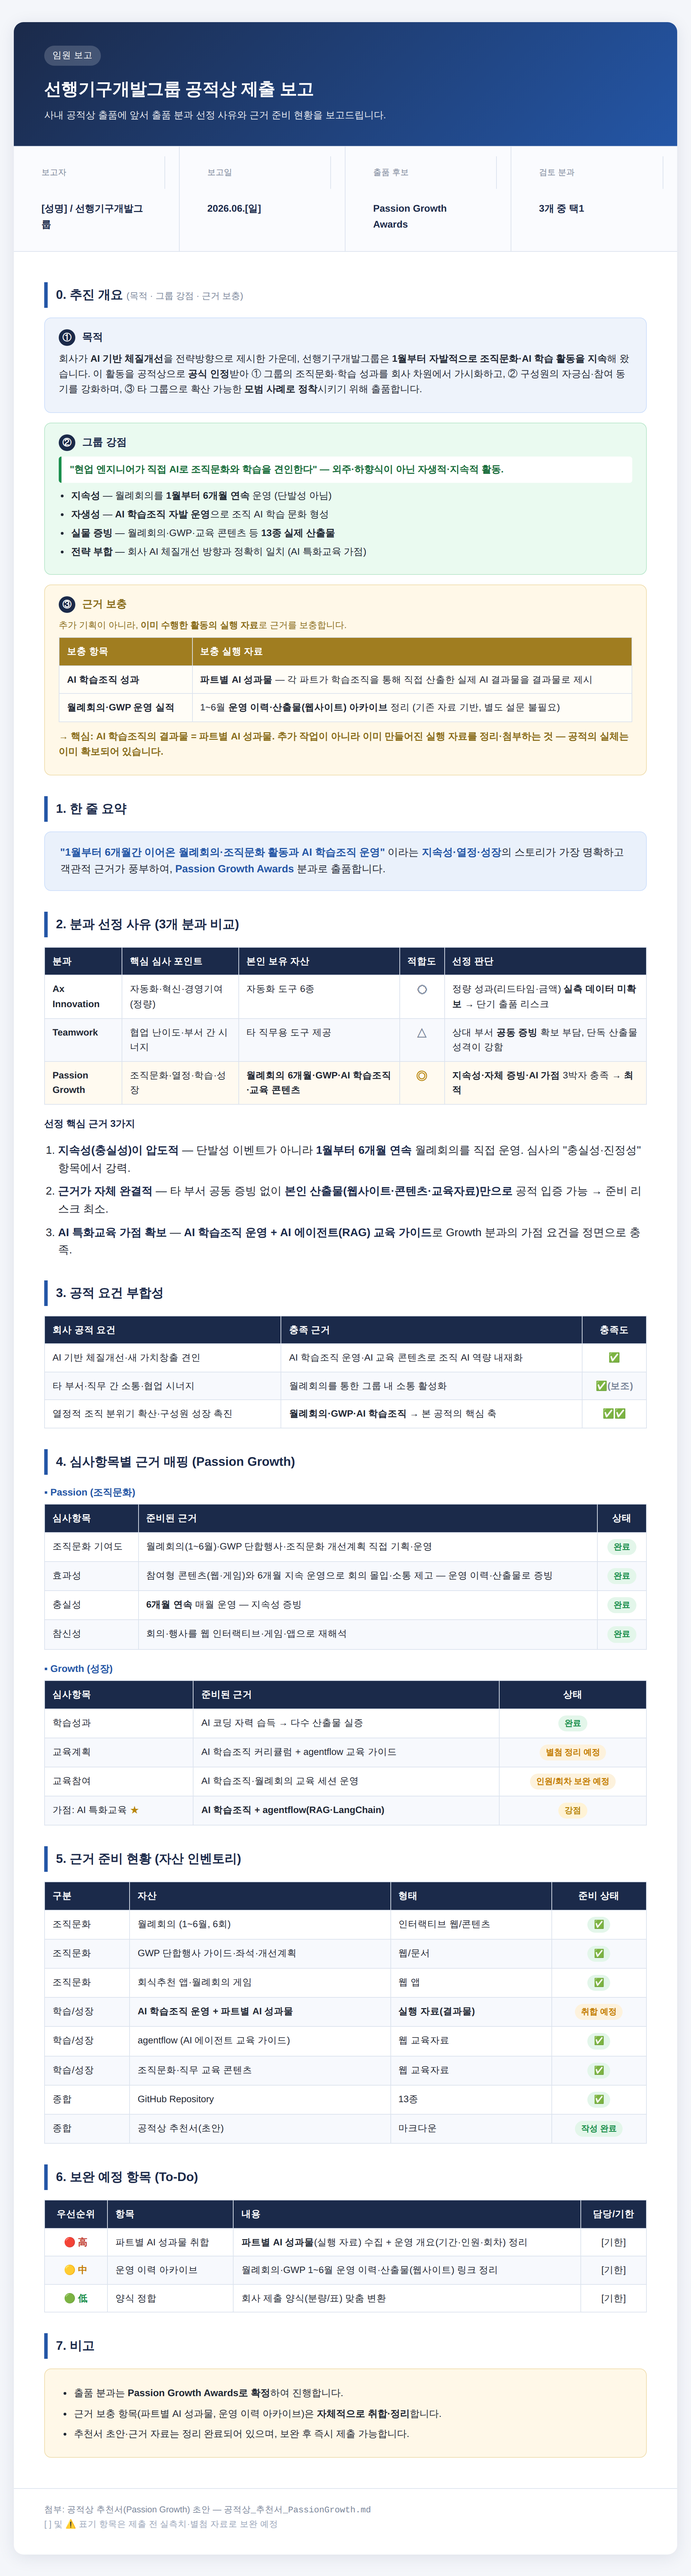
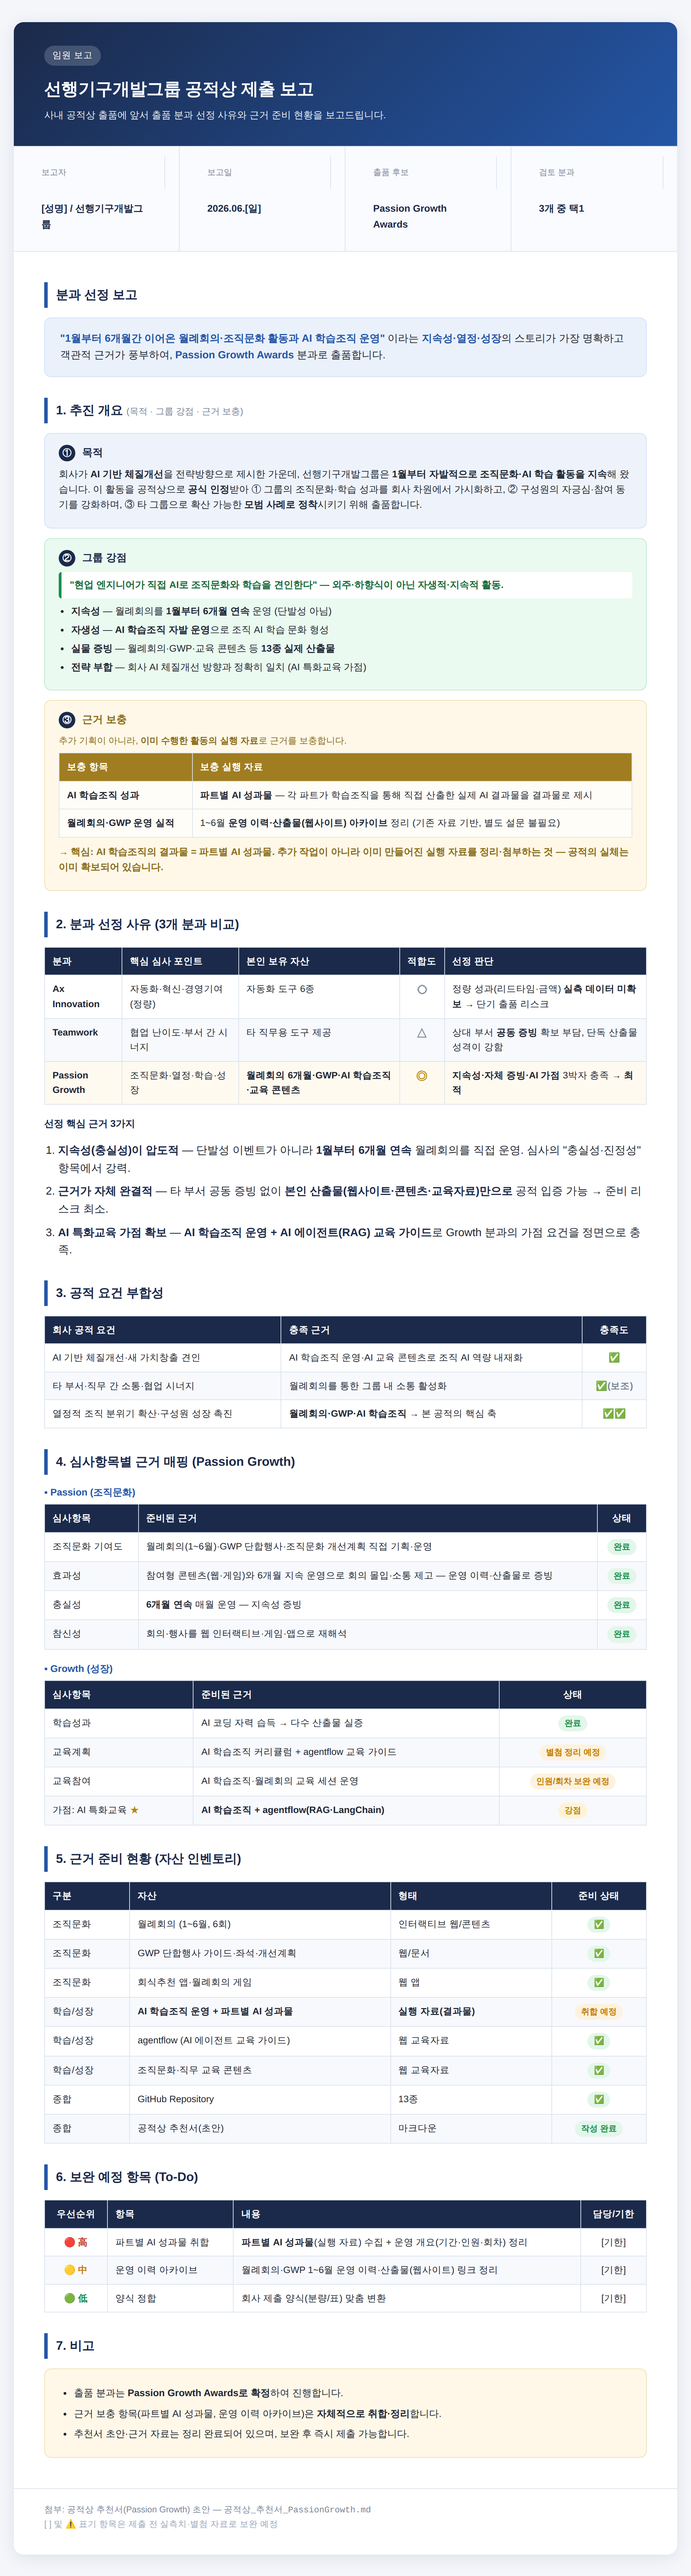
요약을 최상단으로 이동 및 '분과 선정 보고'로 변경, 추진 개요 번호 1로 조정, 이미지 갱신

Changed region(s): [[0.062, 0.1246, 0.93, 0.3426]]

diff --git a/index.html b/index.html
@@ -98,7 +98,16 @@
 
   <main>
     <section>
-      <h2>0. 추진 개요 <span style="font-size:13px;font-weight:400;color:#7a869a;">(목적 · 그룹 강점 · 근거 보충)</span></h2>
+      <h2>분과 선정 보고</h2>
+      <div class="summary">
+        <b>"1월부터 6개월간 이어온 월례회의·조직문화 활동과 AI 학습조직 운영"</b> 이라는
+        <b>지속성·열정·성장</b>의 스토리가 가장 명확하고 객관적 근거가 풍부하여,
+        <b>Passion Growth Awards</b> 분과로 출품합니다.
+      </div>
+    </section>
+
+    <section>
+      <h2>1. 추진 개요 <span style="font-size:13px;font-weight:400;color:#7a869a;">(목적 · 그룹 강점 · 근거 보충)</span></h2>
       <div class="overview">
         <div class="ov-card ov-why">
           <div class="ov-head"><span class="ov-num">①</span> 목적</div>
@@ -126,15 +135,6 @@
           </table>
           <p class="ov-foot">→ 핵심: <b>AI 학습조직의 결과물 = 파트별 AI 성과물.</b> 추가 작업이 아니라 이미 만들어진 실행 자료를 정리·첨부하는 것 — 공적의 실체는 이미 확보되어 있습니다.</p>
         </div>
-      </div>
-    </section>
-
-    <section>
-      <h2>1. 한 줄 요약</h2>
-      <div class="summary">
-        <b>"1월부터 6개월간 이어온 월례회의·조직문화 활동과 AI 학습조직 운영"</b> 이라는
-        <b>지속성·열정·성장</b>의 스토리가 가장 명확하고 객관적 근거가 풍부하여,
-        <b>Passion Growth Awards</b> 분과로 출품합니다.
       </div>
     </section>
 

diff --git a/임원보고_분과선정사유.html b/임원보고_분과선정사유.html
@@ -98,7 +98,16 @@
 
   <main>
     <section>
-      <h2>0. 추진 개요 <span style="font-size:13px;font-weight:400;color:#7a869a;">(목적 · 그룹 강점 · 근거 보충)</span></h2>
+      <h2>분과 선정 보고</h2>
+      <div class="summary">
+        <b>"1월부터 6개월간 이어온 월례회의·조직문화 활동과 AI 학습조직 운영"</b> 이라는
+        <b>지속성·열정·성장</b>의 스토리가 가장 명확하고 객관적 근거가 풍부하여,
+        <b>Passion Growth Awards</b> 분과로 출품합니다.
+      </div>
+    </section>
+
+    <section>
+      <h2>1. 추진 개요 <span style="font-size:13px;font-weight:400;color:#7a869a;">(목적 · 그룹 강점 · 근거 보충)</span></h2>
       <div class="overview">
         <div class="ov-card ov-why">
           <div class="ov-head"><span class="ov-num">①</span> 목적</div>
@@ -126,15 +135,6 @@
           </table>
           <p class="ov-foot">→ 핵심: <b>AI 학습조직의 결과물 = 파트별 AI 성과물.</b> 추가 작업이 아니라 이미 만들어진 실행 자료를 정리·첨부하는 것 — 공적의 실체는 이미 확보되어 있습니다.</p>
         </div>
-      </div>
-    </section>
-
-    <section>
-      <h2>1. 한 줄 요약</h2>
-      <div class="summary">
-        <b>"1월부터 6개월간 이어온 월례회의·조직문화 활동과 AI 학습조직 운영"</b> 이라는
-        <b>지속성·열정·성장</b>의 스토리가 가장 명확하고 객관적 근거가 풍부하여,
-        <b>Passion Growth Awards</b> 분과로 출품합니다.
       </div>
     </section>
 

diff --git a/임원보고_분과선정사유.md b/임원보고_분과선정사유.md
@@ -12,7 +12,15 @@
 
 ---
 
-## 0. 추진 개요 (목적 · 그룹 강점 · 근거 보충)
+## 분과 선정 보고
+
+> **"1월부터 6개월간 이어온 월례회의·조직문화 활동과 AI 학습조직 운영"** 이라는
+> **지속성·열정·성장**의 스토리가 가장 명확하고 객관적 근거가 풍부하여,
+> **Passion Growth Awards** 분과로 출품합니다.
+
+---
+
+## 1. 추진 개요 (목적 · 그룹 강점 · 근거 보충)
 
 ### ① 목적
 회사가 **AI 기반 체질개선**을 전략방향으로 제시한 가운데, 선행기구개발그룹은 **1월부터 자발적으로 조직문화·AI 학습 활동을 지속**해 왔습니다.
@@ -36,14 +44,6 @@
 | **월례회의·GWP 운영 실적** | 1~6월 **운영 이력·산출물(웹사이트) 아카이브** 정리 (기존 자료 기반, 별도 설문 불필요) |
 
 > **핵심: AI 학습조직의 결과물 = 파트별 AI 성과물.** 추가 작업이 아니라 이미 만들어진 실행 자료를 정리·첨부하는 것이므로, 공적의 실체는 이미 확보되어 있습니다.
-
----
-
-## 1. 한 줄 요약
-
-> **"1월부터 6개월간 이어온 월례회의·조직문화 활동과 AI 학습조직 운영"** 이라는
-> **지속성·열정·성장**의 스토리가 가장 명확하고 객관적 근거가 풍부하여,
-> **Passion Growth Awards** 분과로 출품합니다.
 
 ---
 
